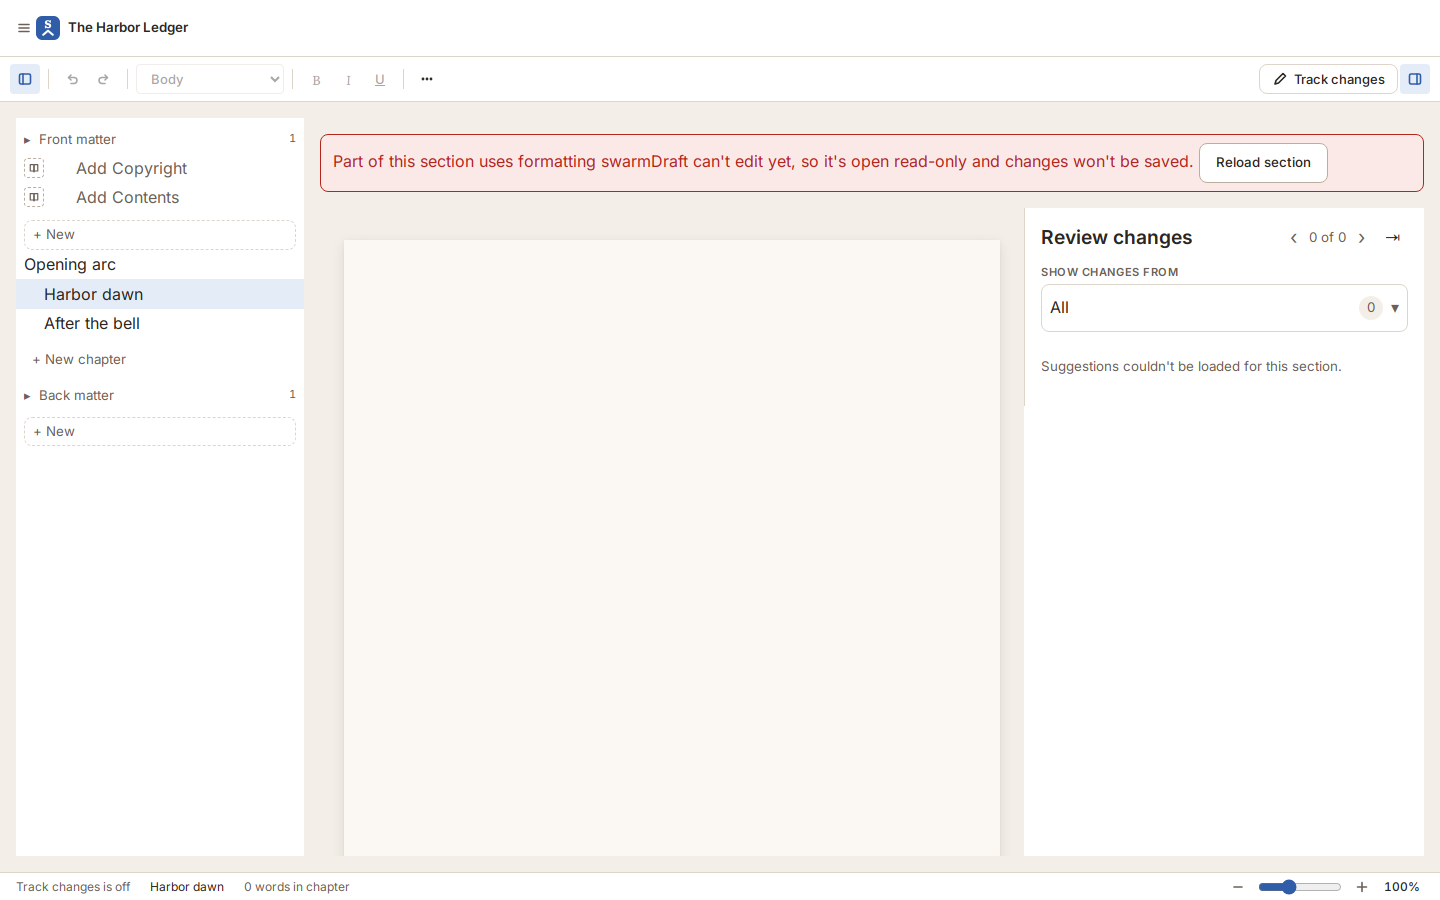
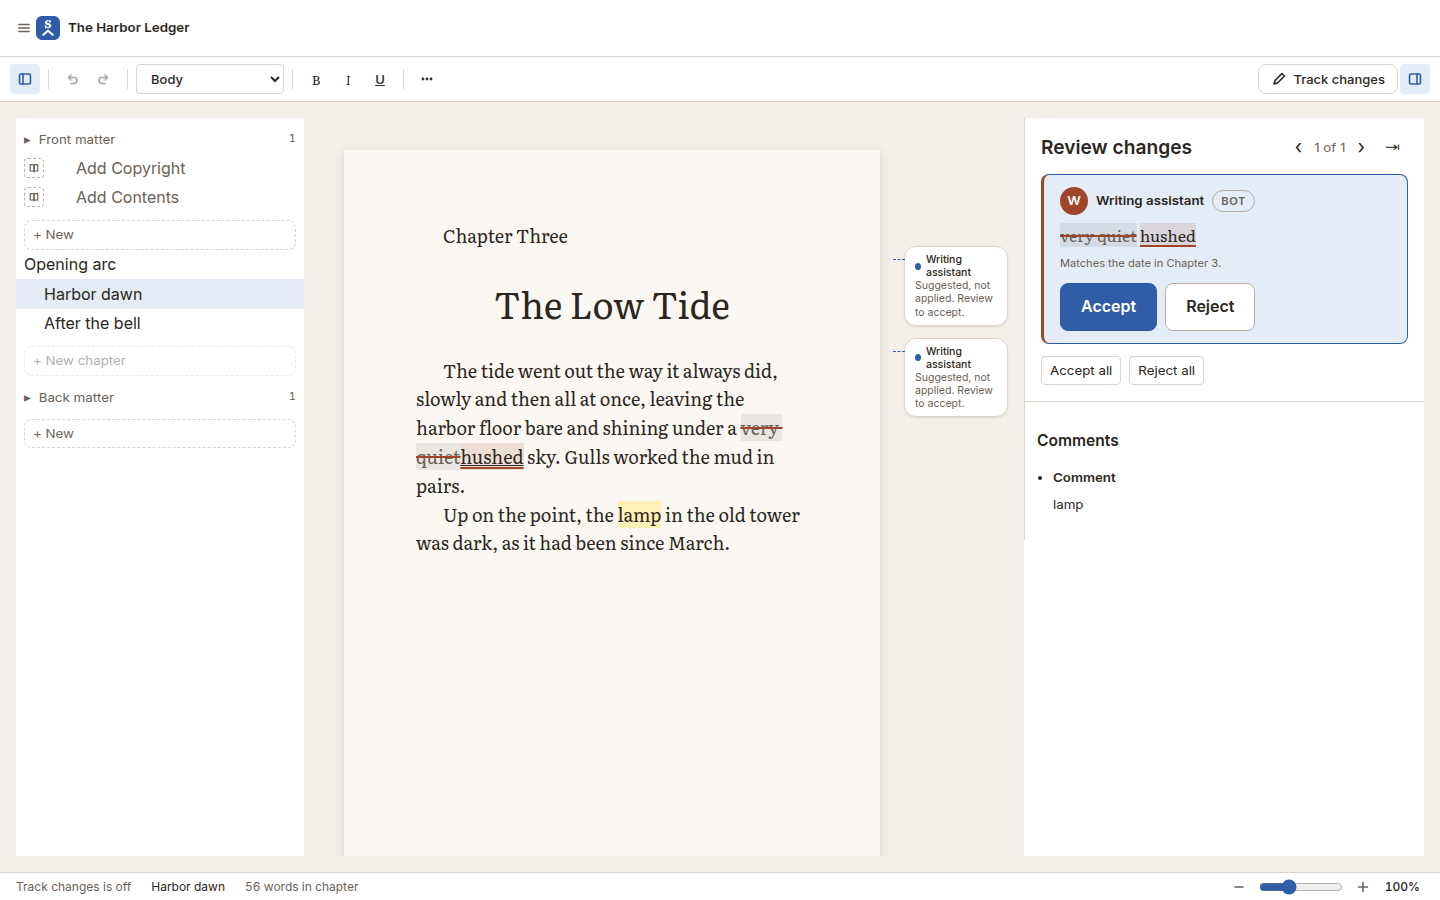
fix(#67): review rail region id, filter Esc focus, evidence shots
Keep #review-changes-region in the DOM when the panel collapses to a rail,
return focus to the wp8 filter button when Esc closes the author popover,
and re-capture wp1/wp6/wp8 App-shell screenshots after the harness fix.

diff --git a/apps/desktop/src/review/ReviewPanel.vue b/apps/desktop/src/review/ReviewPanel.vue
@@ -10,7 +10,7 @@
 import EmptyState from '../shells/EmptyState.vue';
 import ReasonLine from '../shells/ReasonLine.vue';
 import PanelRail from '../desk/PanelRail.vue';
-import { computed, onBeforeUnmount, ref, watch } from 'vue';
+import { computed, nextTick, onBeforeUnmount, ref, watch } from 'vue';
 import type { Decision, SuggestionItem } from '@coauthor/editor';
 import {
   authorKind,
@@ -76,8 +76,14 @@ const initial = (a: string) => (parts(a).name[0] ?? '?').toUpperCase();
 /** "Show changes from" popover (multi-author checkbox picker, #67). */
 const menuOpen = ref(false);
 const root = ref<HTMLElement | null>(null);
+const filterToggle = ref<HTMLButtonElement | null>(null);
+function closeFilterMenu(refocus = false) {
+  if (!menuOpen.value) return;
+  menuOpen.value = false;
+  if (refocus) void nextTick(() => filterToggle.value?.focus());
+}
 function onDocDown(e: MouseEvent) {
-  if (root.value && !root.value.contains(e.target as Node)) menuOpen.value = false;
+  if (root.value && !root.value.contains(e.target as Node)) closeFilterMenu(false);
 }
 watch(menuOpen, (open) => {
   if (open) document.addEventListener('mousedown', onDocDown);
@@ -129,6 +135,13 @@ const tip = (text: string, keys: string) => `${text} (${keys})`;
     :panel-expanded="false"
     data-test="review-rail"
     @expand="emit('toggle-collapsed')"
+  />
+  <div
+    v-if="collapsed"
+    :id="REVIEW_CHANGES_REGION_ID"
+    class="review-region-anchor"
+    aria-hidden="true"
+    data-test="review-region-anchor"
   />
   <aside
     v-else
@@ -182,10 +195,11 @@ const tip = (text: string, keys: string) => `${text} (${keys})`;
       v-if="authors.length > 1"
       ref="root"
       class="filter"
-      @keydown.escape.stop="menuOpen = false"
+      @keydown.escape.stop="closeFilterMenu(true)"
     >
       <div id="show-from" class="lbl">Show changes from</div>
       <button
+        ref="filterToggle"
         type="button"
         class="dd"
         data-test="filter-toggle"
@@ -320,6 +334,14 @@ const tip = (text: string, keys: string) => `${text} (${keys})`;
 </template>
 
 <style scoped>
+.review-region-anchor {
+  position: absolute;
+  width: 1px;
+  height: 1px;
+  overflow: hidden;
+  clip: rect(0 0 0 0);
+  white-space: nowrap;
+}
 .review-panel {
   background: var(--ct-surface);
   border-left: 1px solid var(--ct-border);

diff --git a/apps/desktop/src/review/ReviewPanel.test.ts b/apps/desktop/src/review/ReviewPanel.test.ts
@@ -72,6 +72,10 @@ describe('ReviewPanel (RAD-258)', () => {
     expect(all.emitted('toggle-author')).toEqual([['agent:a']]);
     await all.setProps({ filter: new Set(['brett']) });
     expect(all.find('[data-test=filter-current]').text()).toBe('1 of 2');
+    expect(all.find('[data-test=step-authors]').exists()).toBe(true);
+    await all.find('.filter').trigger('keydown', { key: 'Escape' });
+    expect(all.find('[data-test=step-authors]').exists()).toBe(false);
+    expect(document.activeElement).toBe(all.find('[data-test=filter-toggle]').element);
     all.unmount();
 
     const w = mount(ReviewPanel, { props: { items, labels, filter: new Set(['brett']) } });
@@ -152,6 +156,7 @@ describe('ReviewPanel (RAD-258)', () => {
     expect(w.find('[data-test=expand]').attributes('title')).toContain('Ctrl+\\');
     expect(w.find('[data-test=expand]').attributes('aria-expanded')).toBe('false');
     expect(w.find('[data-test=expand]').attributes('aria-controls')).toBe(REVIEW_CHANGES_REGION_ID);
+    expect(w.find(`#${REVIEW_CHANGES_REGION_ID}`).exists()).toBe(true);
     await w.find('[data-test=expand]').trigger('click');
     expect(w.emitted('toggle-collapsed')).toHaveLength(1);
   });

diff --git a/docs/review-checklist.md b/docs/review-checklist.md
@@ -241,3 +241,6 @@ Format: `YYYY-MM-DD · #PR · finding · rule`
 - 2026-10-30 · #60 · Designer review (#156) · ReasonLine sat above the diff; evidence used shells preview · card order who→change→reason→actions (tc4/tc6); real ReviewPanel evidence via `?evidence=rad60-review`; rationales from meta only (`withSuggestionReasons`); browser `setWebSectionReviewMeta`; `groupChanges` merges replace-pair reasons
 - 2026-10-30 · #67 · Designer re-review (#157) · sr-only split still focusable; PR shots used rad60-review not App shell · gate chapter add behind `OUTLINE_CHAPTER_ADD_UI`; disabled `<button>` for + New chapter; `?evidence=rad67` App-shell evidence; review rail tooltip + “N open changes” badge copy; `OUTLINE_RAIL_ROOM` tied to `--ct-rail-w`
 - 2026-10-30 · #67 · Designer re-review (#157) · disabled New chapter plain text; dual author filter UI; review rail a11y; wp1 evidence invalid mark · reuse `outline-new__btn` on disabled chapter button; one “Show changes from” checkbox popover (`All` / `N of M`); `aria-expanded`/`aria-controls` on review expand and Hide; evidence uses `comment_anchor` (load error was harness-only)
+- 2026-10-30 · #67 · Designer re-review (#157) · collapsed review rail removed `#review-changes-region` · keep a `review-region-anchor` node with the same id while the panel is rail-only so `aria-controls` stays valid
+- 2026-10-30 · #67 · Designer re-review (#157) · Esc on wp8 author filter left focus in the closed popover · `closeFilterMenu(true)` refocuses `[data-test=filter-toggle]` (overflow-menu pattern)
+- 2026-10-30 · #67 · Designer re-review (#157) · PR wp1/wp6/wp8 shots stale or load-error · re-capture from `?evidence=rad67&frame=…&theme=…` App shell after harness fix
